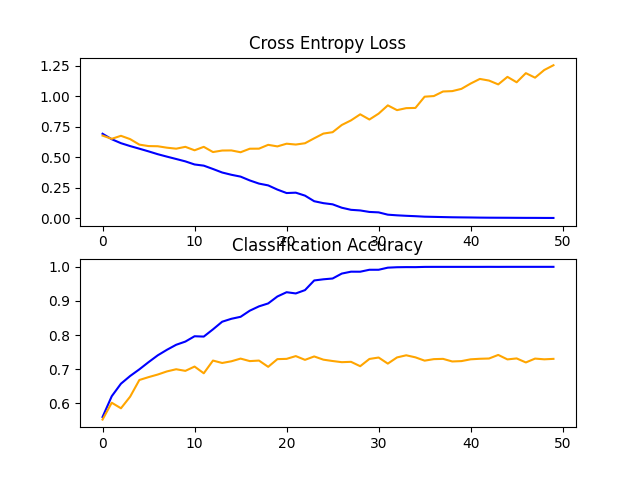
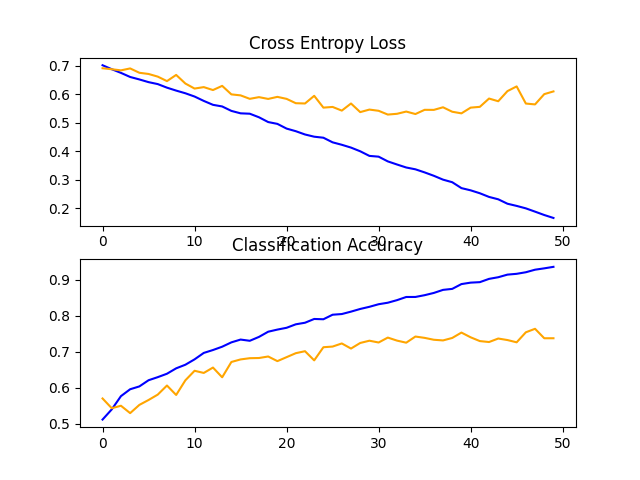
Updated plot and file

diff --git a/MDCP/Three_Block_VGG.py b/MDCP/Three_Block_VGG.py
@@ -9,6 +9,7 @@ from keras.layers import Dense
 from keras.layers import Flatten
 from keras.optimizers import SGD
 from keras.preprocessing.image import ImageDataGenerator
+from keras.layers import Dropout
 
 # define cnn model
 def define_model():
@@ -20,7 +21,7 @@ def define_model():
 
 	model.add(Conv2D(32, (3, 3), activation='relu', kernel_initializer='he_uniform', padding='same', input_shape=(200, 200, 3)))
 	model.add(MaxPooling2D((2, 2)))
-	# Dropout occurs at the end of each layer except the output player to prevent overfitting
+	# Dropout occurs at the end of each layer except the output layer to prevent overfitting
 	# Basically, 10% of neurons will be dropped out from both the forward and backward phase
 	# This prevents neurons from learning based on context and their position around other neurons
 	model.add(Dropout(.10))
@@ -82,9 +83,9 @@ def run_test_harness():
 
 	# Generate batches of data for training and test sets
 	# Iterate through the images in the dogs-vs-catstrain and dogs-vs-catstest1 directories
-	train_it = train_datagen.flow_from_directory('/Users/mariamorales/Documents/Capstome_Projext/MDCP/dogs-vs-catstrain',
+	train_it = train_datagen.flow_from_directory('/Users/mariamorales/Documents/Capstome_Projext/MDCP/dogs-vs-catstrain/',
 		class_mode='binary', batch_size=64, target_size=(200, 200))
-	test_it = test_datagen.flow_from_directory('/Users/mariamorales/Documents/Capstome_Projext/MDCP/dogs-vs-catstest1',
+	test_it = test_datagen.flow_from_directory('/Users/mariamorales/Documents/Capstome_Projext/MDCP/dogs-vs-catstest1/',
 		class_mode='binary', batch_size=64, target_size=(200, 200))
 
 
